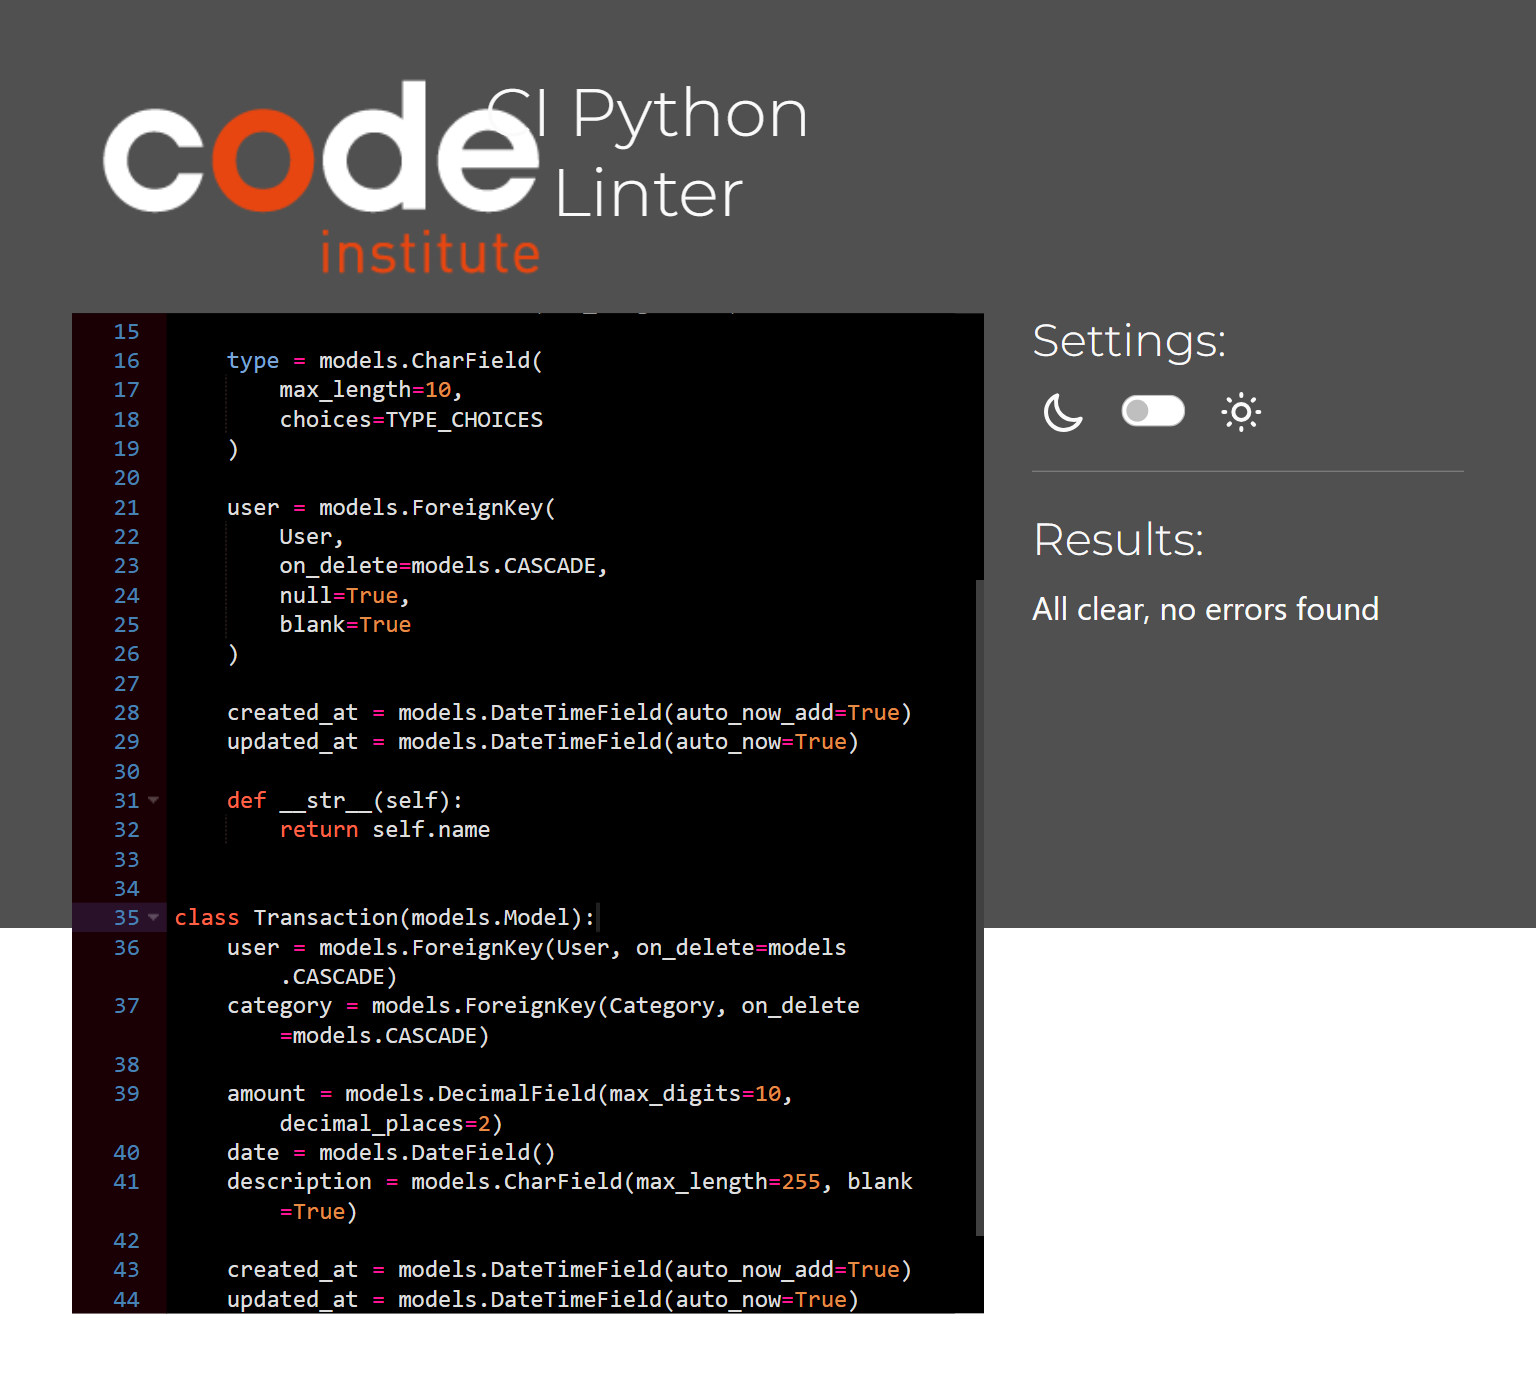
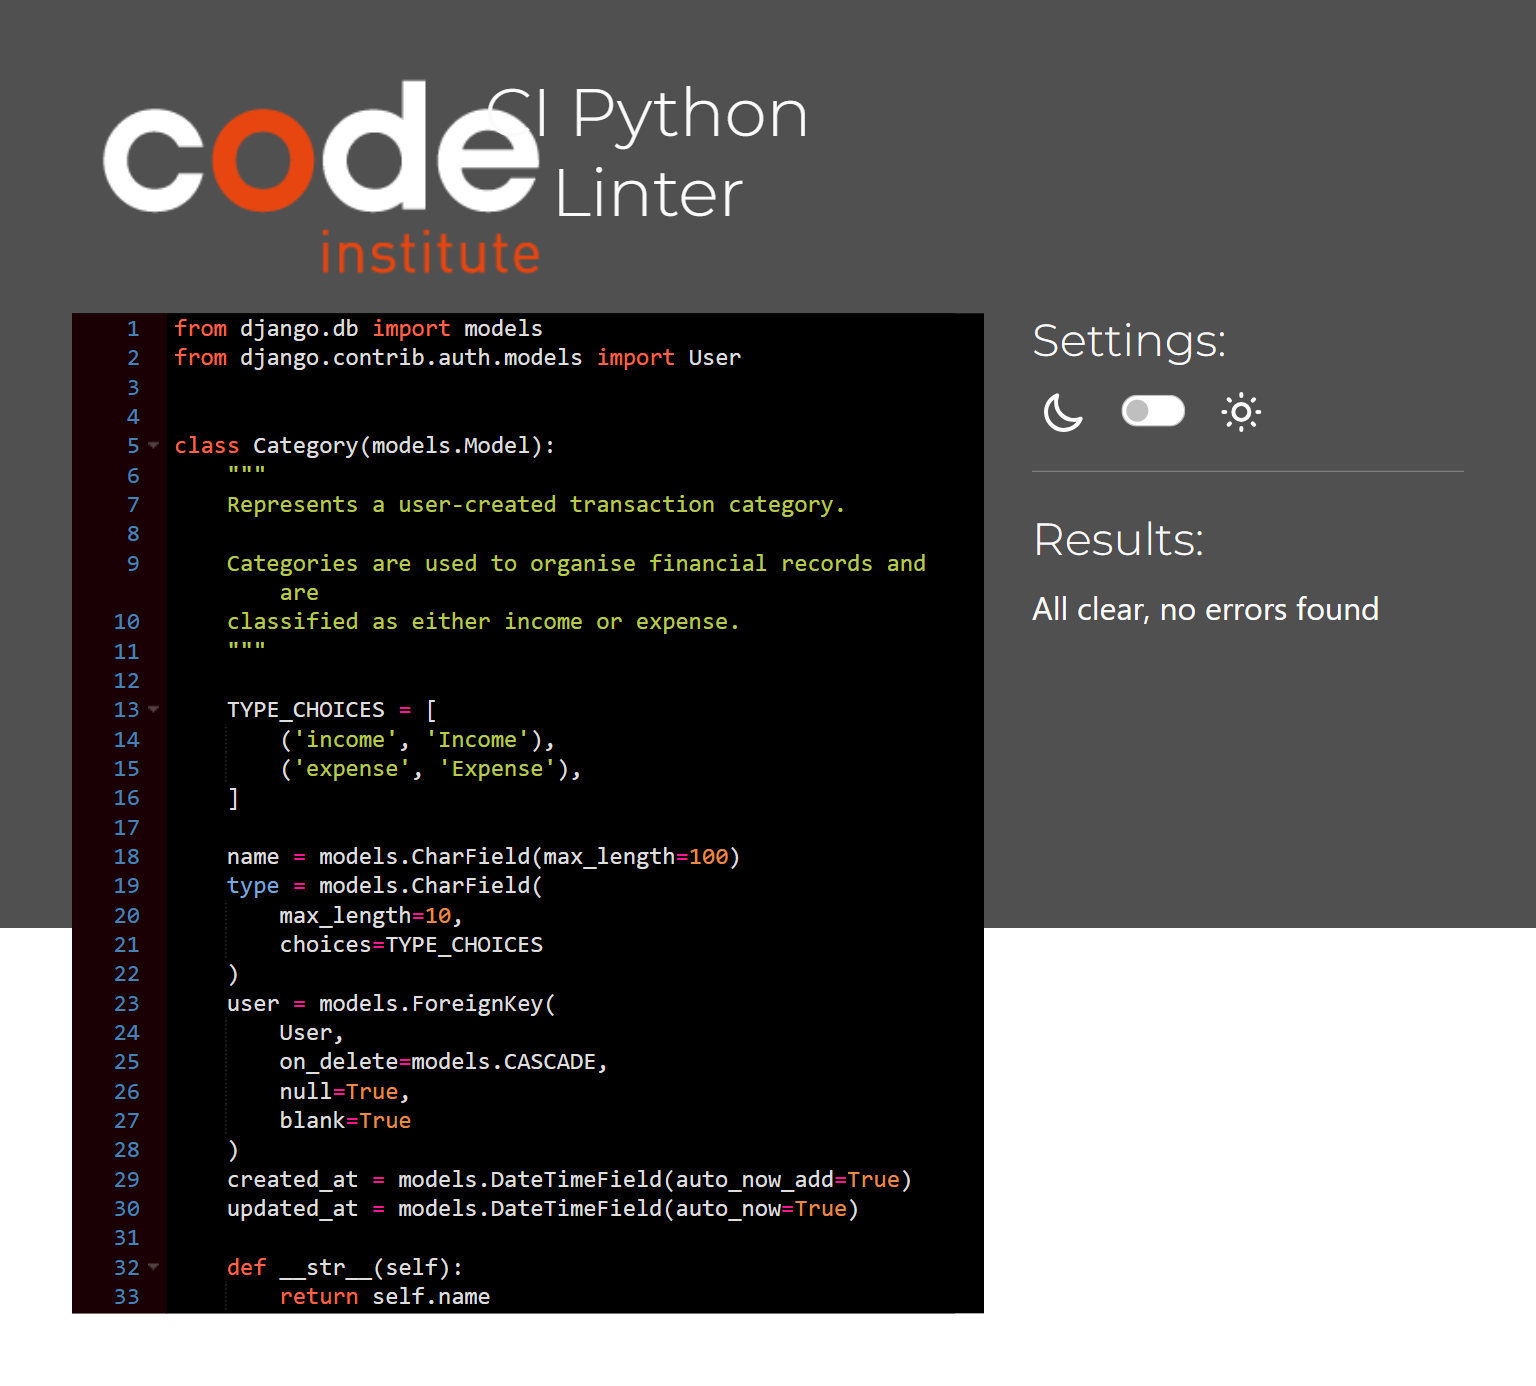
Add docstrings to classes and functions for better code documentation and readability - Readd python test result images to show accuraute test results

diff --git a/budget/views.py b/budget/views.py
@@ -4,11 +4,12 @@ from django.db.models import Sum
 from .models import Category, Transaction
 from .forms import CategoryForm, TransactionForm
 
-# Create your views here.
-
 
 @login_required
 def dashboard(request):
+    """
+    Display the user's dashboard with totals and recent transactions.
+    """
     transactions = Transaction.objects.filter(user=request.user)
 
     income = transactions.filter(
@@ -34,6 +35,9 @@ def dashboard(request):
 
 @login_required
 def categories(request):
+    """
+    Display all categories created by the logged-in user.
+    """
     categories = Category.objects.filter(user=request.user)
     return render(
         request,
@@ -44,6 +48,9 @@ def categories(request):
 
 @login_required
 def add_category(request):
+    """
+    Allow the user to create a new category.
+    """
     form = CategoryForm(request.POST or None)
 
     if form.is_valid():
@@ -57,6 +64,9 @@ def add_category(request):
 
 @login_required
 def delete_category(request, category_id):
+    """
+    Delete a category belonging to the logged-in user.
+    """
     category = get_object_or_404(Category, id=category_id, user=request.user)
     category.delete()
     return redirect('categories')
@@ -64,6 +74,9 @@ def delete_category(request, category_id):
 
 @login_required
 def edit_category(request, category_id):
+    """
+    Allow the user to edit an existing category.
+    """
     category = get_object_or_404(Category, id=category_id, user=request.user)
     form = CategoryForm(request.POST or None, instance=category)
 
@@ -76,6 +89,9 @@ def edit_category(request, category_id):
 
 @login_required
 def add_transaction(request):
+    """
+    Allow the user to create a new transaction.
+    """
     form = TransactionForm(request.POST or None, user=request.user)
 
     if form.is_valid():
@@ -89,6 +105,9 @@ def add_transaction(request):
 
 @login_required
 def edit_transaction(request, transaction_id):
+    """
+    Allow the user to edit an existing transaction.
+    """
     transaction = get_object_or_404(
         Transaction,
         id=transaction_id,
@@ -113,6 +132,9 @@ def edit_transaction(request, transaction_id):
 
 @login_required
 def delete_transaction(request, transaction_id):
+    """
+    Delete a transaction belonging to the logged-in user.
+    """
     transaction = get_object_or_404(
         Transaction,
         id=transaction_id,
@@ -132,6 +154,10 @@ def delete_transaction(request, transaction_id):
 
 @login_required
 def transactions(request):
+    """
+    Display the user's transactions with optional filters
+    for category, type, and month.
+    """
     transactions_qs = Transaction.objects.filter(user=request.user)
 
     category = request.GET.get('category')

diff --git a/budget/forms.py b/budget/forms.py
@@ -3,12 +3,26 @@ from .models import Category, Transaction
 
 
 class CategoryForm(forms.ModelForm):
+    """
+    Form used to create and edit user categories.
+
+    Allows users to define a category name and assign it
+    as either an income or expense type.
+    """
+
     class Meta:
         model = Category
         fields = ['name', 'type']
 
 
 class TransactionForm(forms.ModelForm):
+    """
+    Form used to create and edit financial transactions.
+
+    Includes validation for positive amounts and limits
+    category selection to those owned by the logged-in user.
+    """
+
     class Meta:
         model = Transaction
         fields = ['category', 'amount', 'date', 'description']
@@ -17,13 +31,21 @@ class TransactionForm(forms.ModelForm):
         }
 
     def __init__(self, *args, **kwargs):
+        """
+        Custom initialisation to filter category choices
+        based on the logged-in user.
+        """
         user = kwargs.pop('user', None)
         super().__init__(*args, **kwargs)
 
         if user:
-            self.fields['category'].queryset = Category.objects.filter(user=user)
+            self.fields
+            ['category'].queryset = Category.objects.filter(user=user)
 
     def clean_amount(self):
+        """
+        Ensure that transaction amount is greater than zero.
+        """
         amount = self.cleaned_data.get('amount')
 
         if amount is None:

diff --git a/budget/models.py b/budget/models.py
@@ -1,10 +1,14 @@
 from django.db import models
 from django.contrib.auth.models import User
 
-# Create your models here.
-
 
 class Category(models.Model):
+    """
+    Represents a user-created transaction category.
+
+    Categories are used to organise financial records and are
+    classified as either income or expense.
+    """
 
     TYPE_CHOICES = [
         ('income', 'Income'),
@@ -12,19 +16,16 @@ class Category(models.Model):
     ]
 
     name = models.CharField(max_length=100)
-
     type = models.CharField(
         max_length=10,
         choices=TYPE_CHOICES
     )
-
     user = models.ForeignKey(
         User,
         on_delete=models.CASCADE,
         null=True,
         blank=True
     )
-
     created_at = models.DateTimeField(auto_now_add=True)
     updated_at = models.DateTimeField(auto_now=True)
 
@@ -33,6 +34,13 @@ class Category(models.Model):
 
 
 class Transaction(models.Model):
+    """
+    Represents a financial transaction created by a user.
+
+    Each transaction belongs to one user and one category,
+    and stores the amount, date, and optional description.
+    """
+
     user = models.ForeignKey(User, on_delete=models.CASCADE)
     category = models.ForeignKey(Category, on_delete=models.CASCADE)
 

diff --git a/budget/apps.py b/budget/apps.py
@@ -2,5 +2,9 @@ from django.apps import AppConfig
 
 
 class BudgetConfig(AppConfig):
+    """
+    Configuration for the budget application.
+    """
+
     default_auto_field = 'django.db.models.BigAutoField'
     name = 'budget'
